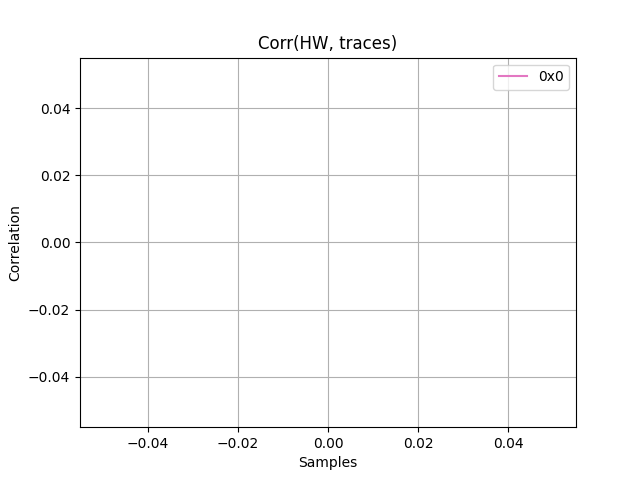
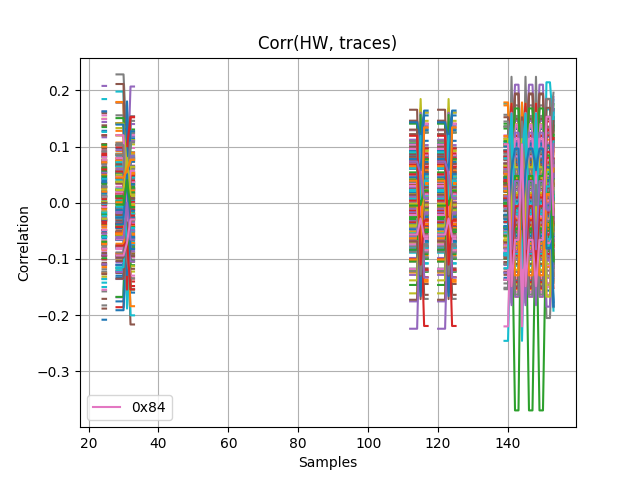
1) globaling number of samples and traces (both attacks) 2) defining function for combined product in 2_o_dpa

diff --git a/2_o_dpa_trsfile/attack.py b/2_o_dpa_trsfile/attack.py
@@ -28,6 +28,7 @@ class AESAttack:
         self.trs = TRS(filename)
         self.n_t = self.trs.number_of_traces
         self.n_s = self.trs.number_of_samples
+        self.n_s_c_p = int((self.n_s * (self.n_s - 1)) / 2)  # The number of samples in a centered product trace
         self.len_p = self.trs.cryptolen
 
     def s_box_output(self, p, k):
@@ -90,8 +91,7 @@ class AESAttack:
         """ This function calculates (S_i * S_j) i=[0:n_s], j=[i+1:n_s] for a single trace,
             where n is the number of samples and returns a [n_s * (n_s - 1)/2]_vector """
         n = len(trace)  # self.n_s = n_samples = self.trs.number_of_samples
-        n_s = int((n * (n - 1))/2)
-        product_sam = np.zeros(n_s)
+        product_sam = np.zeros(self.n_s_c_p)
         i = 0
         for j in range(n):
             for k in range(j+1, n):
@@ -110,8 +110,7 @@ class AESAttack:
             which are used as new traces in dpa attack"""
         traces = self.traces()
         mean_sam = self.mean_sample()
-        n = int((self.n_s * (self.n_s - 1)) / 2)
-        combined_traces = np.zeros((self.n_t, n), np.int16)  # Array of centered_product_samples of each trace
+        combined_traces = np.zeros((self.n_t, self.n_s_c_p))  # Array of centered_product_samples of each trace
         for i in range(self.n_t):
             combined_traces[i] = self.cent_prod_combining_trace(traces[i], mean_sam)
         return combined_traces
@@ -124,10 +123,10 @@ class AESAttack:
 
     def compute_corr(self, hw_vector, leak_traces):
         max_corr = 0
-        corr = np.zeros(self.n_s)
-        for i in range(self.n_s):
+        corr = np.zeros(self.n_s_c_p)
+        for i in range(self.n_s_c_p):
             [corr[i], p_value] = pearsonr(hw_vector, leak_traces[i])
-            if (abs(corr[i]) > max_corr):
+            if abs(corr[i]) > max_corr:
                 max_corr = abs(corr[i])
         return [max_corr, corr]
 
@@ -135,7 +134,7 @@ class AESAttack:
         max_corr = 0
         max_corr_k = 0
         correct_key = 0
-        corr = np.zeros((256, self.n_s))
+        corr = np.zeros((256, self.n_s_c_p))
         self.trs.plot_initial()
         for k_g in range(256):
             [max_corr, corr[k_g]] = self.compute_corr(hw_ve[:, 0, k_g], leak_traces)
@@ -151,10 +150,10 @@ class AESAttack:
 
 if __name__ == "__main__":
     aes_attack = AESAttack()
-    aes_attack.read_trs('2sh_b6.trs')
+    aes_attack.read_trs('2sh_84_200.trs')
     # mean_samp = aes_attack.mean_sample()
 
     hw_v = aes_attack.hw_model_all_p_key()
     leakage_traces = aes_attack.leakage_traces()
     attack = aes_attack.attack_dpa(hw_v, leakage_traces)
-
+a=1

diff --git a/2_o_dpa_trsfile/TRS.py b/2_o_dpa_trsfile/TRS.py
@@ -68,7 +68,7 @@ class TRS:
 
 
 if __name__ == "__main__":
-    trs = TRS('2sh_b6_20.trs')  # The name of the trs file (name.trs)
+    trs = TRS('2sh_b6.trs')  # The name of the trs file (name.trs)
 
     trs.plot_initial()
     for i in range(trs.number_of_traces):
